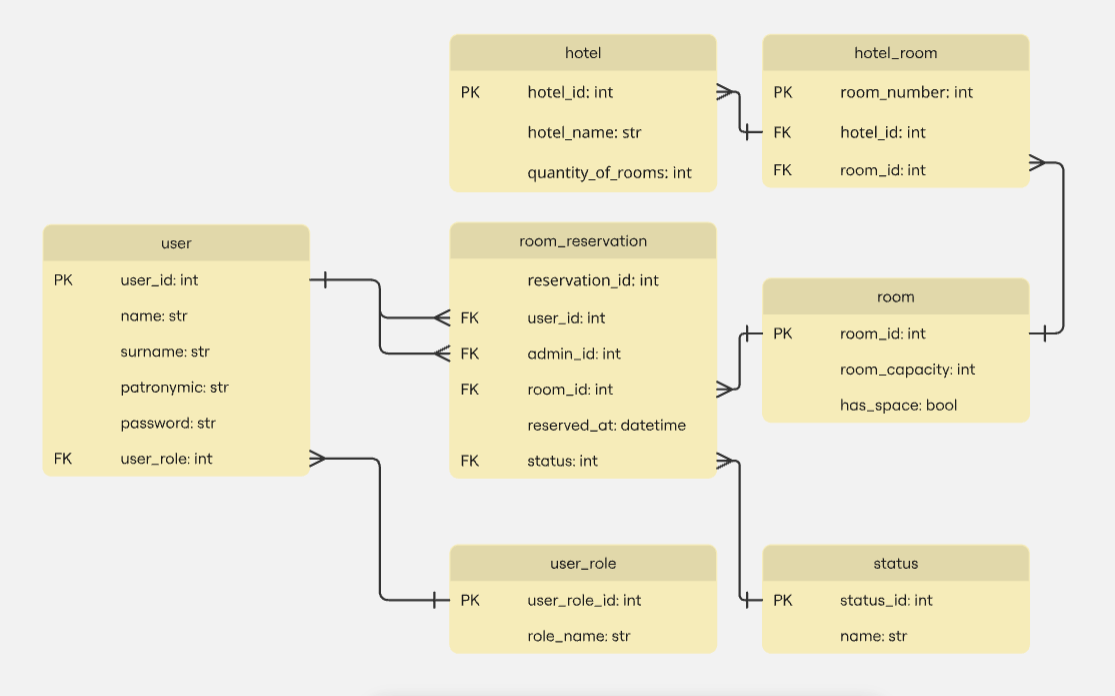
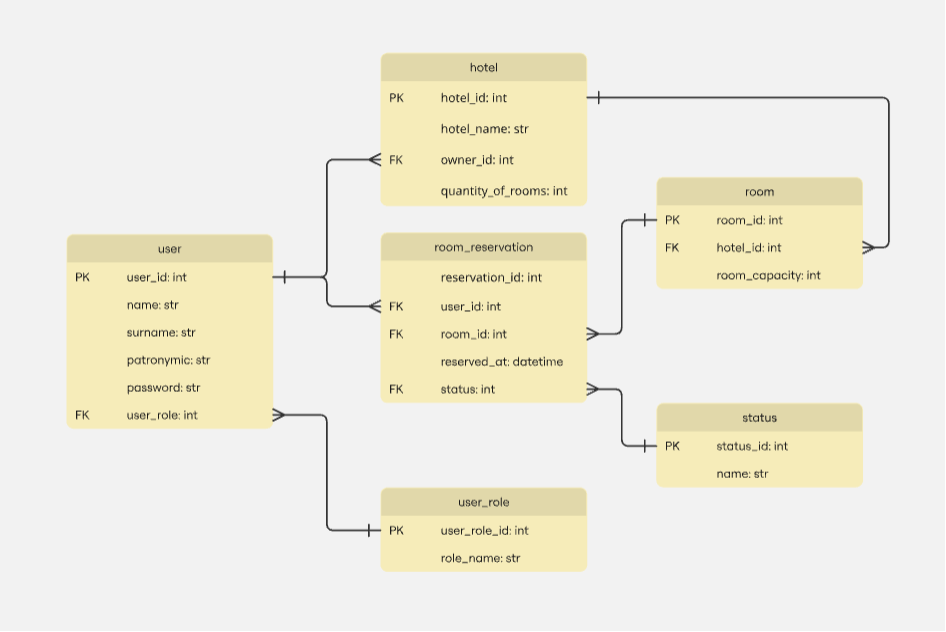
er changes

diff --git a/README.md b/README.md
@@ -44,3 +44,7 @@ HotelProject/
         ├── usecase.plantuml           # Use Case диаграмма
         └── ...                        # Другие диаграммы
 ```
+
+
+### ER-диаграмма базы данных
+![alt text](docs\diagrams\erd.jpg)
